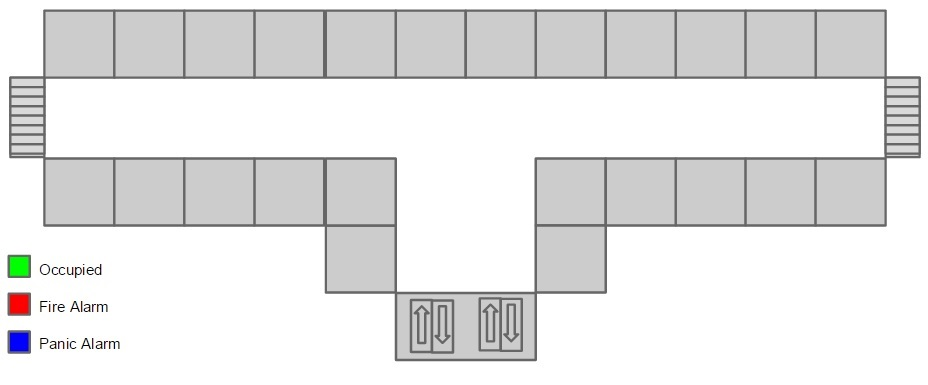
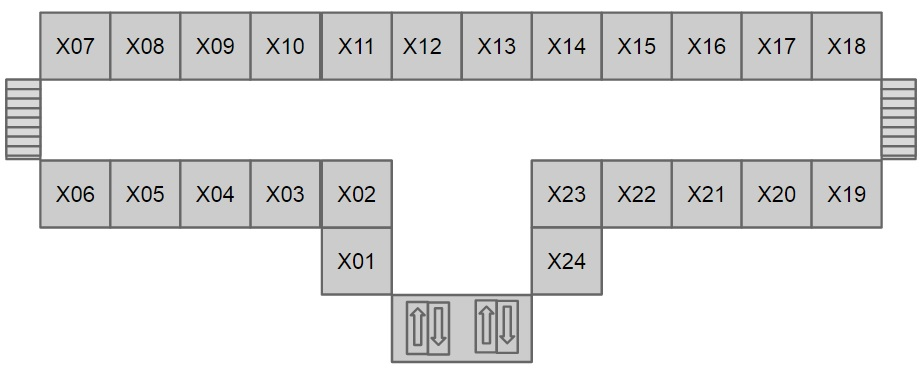
Added floor layout map

diff --git a/mainframe/gui/MainContainerFrame.java b/mainframe/gui/MainContainerFrame.java
@@ -29,7 +29,6 @@ public class MainContainerFrame extends javax.swing.JFrame {
     @SuppressWarnings("unchecked")
     // <editor-fold defaultstate="collapsed" desc="Generated Code">//GEN-BEGIN:initComponents
     private void initComponents() {
-        java.awt.GridBagConstraints gridBagConstraints;
 
         mainFrame = new javax.swing.JTabbedPane();
         reserveTab = new javax.swing.JPanel();
@@ -37,14 +36,7 @@ public class MainContainerFrame extends javax.swing.JFrame {
         cancelReservationButton = new javax.swing.JButton();
         GuestSearchButton = new javax.swing.JButton();
         floorLayoutTab = new javax.swing.JPanel();
-        floorTabPane = new javax.swing.JTabbedPane();
-        floor1Tab = new javax.swing.JTabbedPane();
-        floor1Layout = new javax.swing.JPanel();
-        floor1Background = new javax.swing.JPanel();
         jLabel1 = new javax.swing.JLabel();
-        jPanel1 = new javax.swing.JPanel();
-        floor2Tab = new javax.swing.JTabbedPane();
-        floor3Tab = new javax.swing.JTabbedPane();
         kitchenTab = new javax.swing.JPanel();
         kitchenPanel = new javax.swing.JPanel();
         CurrentOrdersLabel1 = new javax.swing.JLabel();
@@ -113,7 +105,7 @@ public class MainContainerFrame extends javax.swing.JFrame {
                     .addGroup(reserveTabLayout.createParallelGroup(javax.swing.GroupLayout.Alignment.LEADING, false)
                         .addComponent(cancelReservationButton, javax.swing.GroupLayout.DEFAULT_SIZE, 188, Short.MAX_VALUE)
                         .addComponent(newReservationButton, javax.swing.GroupLayout.DEFAULT_SIZE, javax.swing.GroupLayout.DEFAULT_SIZE, Short.MAX_VALUE)))
-                .addContainerGap(692, Short.MAX_VALUE))
+                .addContainerGap(688, Short.MAX_VALUE))
         );
         reserveTabLayout.setVerticalGroup(
             reserveTabLayout.createParallelGroup(javax.swing.GroupLayout.Alignment.LEADING)
@@ -124,73 +116,29 @@ public class MainContainerFrame extends javax.swing.JFrame {
                 .addComponent(cancelReservationButton, javax.swing.GroupLayout.PREFERRED_SIZE, 61, javax.swing.GroupLayout.PREFERRED_SIZE)
                 .addGap(44, 44, 44)
                 .addComponent(GuestSearchButton, javax.swing.GroupLayout.PREFERRED_SIZE, 61, javax.swing.GroupLayout.PREFERRED_SIZE)
-                .addContainerGap(262, Short.MAX_VALUE))
+                .addContainerGap(229, Short.MAX_VALUE))
         );
 
         mainFrame.addTab("Reservation", reserveTab);
 
-        floor1Background.setBackground(new java.awt.Color(255, 255, 255));
-        floor1Background.setLayout(new java.awt.GridBagLayout());
-
-        jLabel1.setIcon(new javax.swing.ImageIcon(getClass().getResource("/mainframe/resources/floorlayout.jpg"))); // NOI18N
-        gridBagConstraints = new java.awt.GridBagConstraints();
-        gridBagConstraints.gridx = 0;
-        gridBagConstraints.gridy = 0;
-        gridBagConstraints.fill = java.awt.GridBagConstraints.BOTH;
-        gridBagConstraints.weightx = 1.0;
-        gridBagConstraints.weighty = 1.0;
-        floor1Background.add(jLabel1, gridBagConstraints);
-
-        jPanel1.setOpaque(false);
-
-        javax.swing.GroupLayout jPanel1Layout = new javax.swing.GroupLayout(jPanel1);
-        jPanel1.setLayout(jPanel1Layout);
-        jPanel1Layout.setHorizontalGroup(
-            jPanel1Layout.createParallelGroup(javax.swing.GroupLayout.Alignment.LEADING)
-            .addGap(0, 936, Short.MAX_VALUE)
-        );
-        jPanel1Layout.setVerticalGroup(
-            jPanel1Layout.createParallelGroup(javax.swing.GroupLayout.Alignment.LEADING)
-            .addGap(0, 538, Short.MAX_VALUE)
-        );
-
-        gridBagConstraints = new java.awt.GridBagConstraints();
-        gridBagConstraints.gridx = 0;
-        gridBagConstraints.gridy = 0;
-        gridBagConstraints.fill = java.awt.GridBagConstraints.BOTH;
-        gridBagConstraints.weightx = 1.0;
-        gridBagConstraints.weighty = 1.0;
-        floor1Background.add(jPanel1, gridBagConstraints);
-
-        javax.swing.GroupLayout floor1LayoutLayout = new javax.swing.GroupLayout(floor1Layout);
-        floor1Layout.setLayout(floor1LayoutLayout);
-        floor1LayoutLayout.setHorizontalGroup(
-            floor1LayoutLayout.createParallelGroup(javax.swing.GroupLayout.Alignment.LEADING)
-            .addComponent(floor1Background, javax.swing.GroupLayout.DEFAULT_SIZE, javax.swing.GroupLayout.DEFAULT_SIZE, Short.MAX_VALUE)
-        );
-        floor1LayoutLayout.setVerticalGroup(
-            floor1LayoutLayout.createParallelGroup(javax.swing.GroupLayout.Alignment.LEADING)
-            .addComponent(floor1Background, javax.swing.GroupLayout.DEFAULT_SIZE, javax.swing.GroupLayout.DEFAULT_SIZE, Short.MAX_VALUE)
-        );
-
-        floor1Tab.addTab("Floor Plan", floor1Layout);
-
-        floorTabPane.addTab("Floor 1", floor1Tab);
-        floorTabPane.addTab("Floor 2", floor2Tab);
-        floorTabPane.addTab("Floor 3", floor3Tab);
+        jLabel1.setIcon(new javax.swing.ImageIcon(getClass().getResource("/codekillers/mainframe/resources/floorlayout.jpg"))); // NOI18N
 
         javax.swing.GroupLayout floorLayoutTabLayout = new javax.swing.GroupLayout(floorLayoutTab);
         floorLayoutTab.setLayout(floorLayoutTabLayout);
         floorLayoutTabLayout.setHorizontalGroup(
             floorLayoutTabLayout.createParallelGroup(javax.swing.GroupLayout.Alignment.LEADING)
-            .addComponent(floorTabPane)
+            .addGroup(javax.swing.GroupLayout.Alignment.TRAILING, floorLayoutTabLayout.createSequentialGroup()
+                .addContainerGap(javax.swing.GroupLayout.DEFAULT_SIZE, Short.MAX_VALUE)
+                .addComponent(jLabel1)
+                .addContainerGap())
         );
         floorLayoutTabLayout.setVerticalGroup(
             floorLayoutTabLayout.createParallelGroup(javax.swing.GroupLayout.Alignment.LEADING)
-            .addComponent(floorTabPane)
+            .addGroup(floorLayoutTabLayout.createSequentialGroup()
+                .addGap(89, 89, 89)
+                .addComponent(jLabel1)
+                .addContainerGap(99, Short.MAX_VALUE))
         );
-
-        floorTabPane.getAccessibleContext().setAccessibleName("FloorTabPane");
 
         mainFrame.addTab("Floor Layout", floorLayoutTab);
 
@@ -288,33 +236,33 @@ public class MainContainerFrame extends javax.swing.JFrame {
         kitchenPanel.setLayout(kitchenPanelLayout);
         kitchenPanelLayout.setHorizontalGroup(
             kitchenPanelLayout.createParallelGroup(javax.swing.GroupLayout.Alignment.LEADING)
-            .addGroup(javax.swing.GroupLayout.Alignment.TRAILING, kitchenPanelLayout.createSequentialGroup()
-                .addContainerGap()
-                .addGroup(kitchenPanelLayout.createParallelGroup(javax.swing.GroupLayout.Alignment.LEADING)
-                    .addComponent(NewOrderButton, javax.swing.GroupLayout.PREFERRED_SIZE, 250, javax.swing.GroupLayout.PREFERRED_SIZE)
-                    .addComponent(OrderHistoryButton, javax.swing.GroupLayout.PREFERRED_SIZE, 250, javax.swing.GroupLayout.PREFERRED_SIZE)
-                    .addGroup(kitchenPanelLayout.createParallelGroup(javax.swing.GroupLayout.Alignment.LEADING)
-                        .addComponent(EditOrderButton, javax.swing.GroupLayout.Alignment.TRAILING, javax.swing.GroupLayout.PREFERRED_SIZE, 250, javax.swing.GroupLayout.PREFERRED_SIZE)
-                        .addComponent(RemoveOrderButton, javax.swing.GroupLayout.PREFERRED_SIZE, 250, javax.swing.GroupLayout.PREFERRED_SIZE)
-                        .addComponent(ViewMenuButton, javax.swing.GroupLayout.PREFERRED_SIZE, 250, javax.swing.GroupLayout.PREFERRED_SIZE)
-                        .addComponent(ViewInventoryButton, javax.swing.GroupLayout.Alignment.TRAILING, javax.swing.GroupLayout.PREFERRED_SIZE, 250, javax.swing.GroupLayout.PREFERRED_SIZE)
-                        .addComponent(EditInventoryButton, javax.swing.GroupLayout.Alignment.TRAILING, javax.swing.GroupLayout.PREFERRED_SIZE, 250, javax.swing.GroupLayout.PREFERRED_SIZE)))
-                .addGap(48, 48, 48)
-                .addComponent(currentOrdersPanel, javax.swing.GroupLayout.PREFERRED_SIZE, javax.swing.GroupLayout.DEFAULT_SIZE, javax.swing.GroupLayout.PREFERRED_SIZE)
-                .addPreferredGap(javax.swing.LayoutStyle.ComponentPlacement.RELATED, 128, Short.MAX_VALUE)
-                .addGroup(kitchenPanelLayout.createParallelGroup(javax.swing.GroupLayout.Alignment.LEADING)
-                    .addGroup(javax.swing.GroupLayout.Alignment.TRAILING, kitchenPanelLayout.createSequentialGroup()
-                        .addComponent(activeOrdersPanel, javax.swing.GroupLayout.PREFERRED_SIZE, javax.swing.GroupLayout.DEFAULT_SIZE, javax.swing.GroupLayout.PREFERRED_SIZE)
-                        .addContainerGap())
-                    .addGroup(javax.swing.GroupLayout.Alignment.TRAILING, kitchenPanelLayout.createSequentialGroup()
-                        .addComponent(orderPickupButton, javax.swing.GroupLayout.PREFERRED_SIZE, 204, javax.swing.GroupLayout.PREFERRED_SIZE)
-                        .addGap(26, 26, 26))))
             .addGroup(kitchenPanelLayout.createSequentialGroup()
-                .addContainerGap(javax.swing.GroupLayout.DEFAULT_SIZE, Short.MAX_VALUE)
-                .addComponent(CurrentOrdersLabel1)
-                .addGap(158, 158, 158)
-                .addComponent(activeOrdersLabel)
-                .addGap(85, 85, 85))
+                .addGroup(kitchenPanelLayout.createParallelGroup(javax.swing.GroupLayout.Alignment.LEADING)
+                    .addGroup(kitchenPanelLayout.createSequentialGroup()
+                        .addContainerGap()
+                        .addGroup(kitchenPanelLayout.createParallelGroup(javax.swing.GroupLayout.Alignment.LEADING)
+                            .addComponent(NewOrderButton, javax.swing.GroupLayout.PREFERRED_SIZE, 250, javax.swing.GroupLayout.PREFERRED_SIZE)
+                            .addComponent(OrderHistoryButton, javax.swing.GroupLayout.PREFERRED_SIZE, 250, javax.swing.GroupLayout.PREFERRED_SIZE)
+                            .addGroup(kitchenPanelLayout.createParallelGroup(javax.swing.GroupLayout.Alignment.LEADING)
+                                .addComponent(EditOrderButton, javax.swing.GroupLayout.Alignment.TRAILING, javax.swing.GroupLayout.PREFERRED_SIZE, 250, javax.swing.GroupLayout.PREFERRED_SIZE)
+                                .addComponent(RemoveOrderButton, javax.swing.GroupLayout.PREFERRED_SIZE, 250, javax.swing.GroupLayout.PREFERRED_SIZE)
+                                .addComponent(ViewMenuButton, javax.swing.GroupLayout.PREFERRED_SIZE, 250, javax.swing.GroupLayout.PREFERRED_SIZE)
+                                .addComponent(ViewInventoryButton, javax.swing.GroupLayout.Alignment.TRAILING, javax.swing.GroupLayout.PREFERRED_SIZE, 250, javax.swing.GroupLayout.PREFERRED_SIZE)
+                                .addComponent(EditInventoryButton, javax.swing.GroupLayout.Alignment.TRAILING, javax.swing.GroupLayout.PREFERRED_SIZE, 250, javax.swing.GroupLayout.PREFERRED_SIZE)))
+                        .addGap(48, 48, 48)
+                        .addComponent(currentOrdersPanel, javax.swing.GroupLayout.PREFERRED_SIZE, javax.swing.GroupLayout.DEFAULT_SIZE, javax.swing.GroupLayout.PREFERRED_SIZE)
+                        .addGap(18, 18, 18)
+                        .addGroup(kitchenPanelLayout.createParallelGroup(javax.swing.GroupLayout.Alignment.LEADING)
+                            .addComponent(activeOrdersPanel, javax.swing.GroupLayout.PREFERRED_SIZE, javax.swing.GroupLayout.DEFAULT_SIZE, javax.swing.GroupLayout.PREFERRED_SIZE)
+                            .addGroup(kitchenPanelLayout.createSequentialGroup()
+                                .addGap(10, 10, 10)
+                                .addComponent(orderPickupButton, javax.swing.GroupLayout.PREFERRED_SIZE, 204, javax.swing.GroupLayout.PREFERRED_SIZE))))
+                    .addGroup(kitchenPanelLayout.createSequentialGroup()
+                        .addGap(374, 374, 374)
+                        .addComponent(CurrentOrdersLabel1)
+                        .addGap(162, 162, 162)
+                        .addComponent(activeOrdersLabel)))
+                .addContainerGap(javax.swing.GroupLayout.DEFAULT_SIZE, Short.MAX_VALUE))
         );
         kitchenPanelLayout.setVerticalGroup(
             kitchenPanelLayout.createParallelGroup(javax.swing.GroupLayout.Alignment.LEADING)
@@ -345,9 +293,8 @@ public class MainContainerFrame extends javax.swing.JFrame {
                         .addGroup(kitchenPanelLayout.createParallelGroup(javax.swing.GroupLayout.Alignment.LEADING)
                             .addGroup(kitchenPanelLayout.createSequentialGroup()
                                 .addComponent(activeOrdersPanel, javax.swing.GroupLayout.PREFERRED_SIZE, javax.swing.GroupLayout.DEFAULT_SIZE, javax.swing.GroupLayout.PREFERRED_SIZE)
-                                .addGap(18, 18, 18)
-                                .addComponent(orderPickupButton)
-                                .addGap(0, 10, Short.MAX_VALUE))
+                                .addPreferredGap(javax.swing.LayoutStyle.ComponentPlacement.RELATED)
+                                .addComponent(orderPickupButton, javax.swing.GroupLayout.DEFAULT_SIZE, javax.swing.GroupLayout.DEFAULT_SIZE, Short.MAX_VALUE))
                             .addComponent(currentOrdersPanel, javax.swing.GroupLayout.DEFAULT_SIZE, javax.swing.GroupLayout.DEFAULT_SIZE, Short.MAX_VALUE))))
                 .addContainerGap())
         );
@@ -358,8 +305,8 @@ public class MainContainerFrame extends javax.swing.JFrame {
             kitchenTabLayout.createParallelGroup(javax.swing.GroupLayout.Alignment.LEADING)
             .addGroup(kitchenTabLayout.createSequentialGroup()
                 .addContainerGap()
-                .addComponent(kitchenPanel, javax.swing.GroupLayout.DEFAULT_SIZE, javax.swing.GroupLayout.DEFAULT_SIZE, Short.MAX_VALUE)
-                .addContainerGap())
+                .addComponent(kitchenPanel, javax.swing.GroupLayout.PREFERRED_SIZE, javax.swing.GroupLayout.DEFAULT_SIZE, javax.swing.GroupLayout.PREFERRED_SIZE)
+                .addContainerGap(javax.swing.GroupLayout.DEFAULT_SIZE, Short.MAX_VALUE))
         );
         kitchenTabLayout.setVerticalGroup(
             kitchenTabLayout.createParallelGroup(javax.swing.GroupLayout.Alignment.LEADING)
@@ -464,7 +411,7 @@ public class MainContainerFrame extends javax.swing.JFrame {
                                 .addGroup(checkoutTabLayout.createSequentialGroup()
                                     .addGap(15, 15, 15)
                                     .addComponent(CheckOutButton))))))
-                .addContainerGap(695, Short.MAX_VALUE))
+                .addContainerGap(691, Short.MAX_VALUE))
         );
         checkoutTabLayout.setVerticalGroup(
             checkoutTabLayout.createParallelGroup(javax.swing.GroupLayout.Alignment.LEADING)
@@ -498,7 +445,7 @@ public class MainContainerFrame extends javax.swing.JFrame {
                     .addComponent(jLabel10))
                 .addGap(38, 38, 38)
                 .addComponent(CheckOutButton)
-                .addContainerGap(276, Short.MAX_VALUE))
+                .addContainerGap(264, Short.MAX_VALUE))
         );
 
         mainFrame.addTab("Check Out", checkoutTab);
@@ -507,11 +454,11 @@ public class MainContainerFrame extends javax.swing.JFrame {
         searchTab.setLayout(searchTabLayout);
         searchTabLayout.setHorizontalGroup(
             searchTabLayout.createParallelGroup(javax.swing.GroupLayout.Alignment.LEADING)
-            .addGap(0, 946, Short.MAX_VALUE)
+            .addGap(0, 942, Short.MAX_VALUE)
         );
         searchTabLayout.setVerticalGroup(
             searchTabLayout.createParallelGroup(javax.swing.GroupLayout.Alignment.LEADING)
-            .addGap(0, 594, Short.MAX_VALUE)
+            .addGap(0, 561, Short.MAX_VALUE)
         );
 
         mainFrame.addTab("Search/Update", searchTab);
@@ -522,12 +469,13 @@ public class MainContainerFrame extends javax.swing.JFrame {
             layout.createParallelGroup(javax.swing.GroupLayout.Alignment.LEADING)
             .addGroup(layout.createSequentialGroup()
                 .addContainerGap()
-                .addComponent(mainFrame)
-                .addContainerGap())
+                .addComponent(mainFrame))
         );
         layout.setVerticalGroup(
             layout.createParallelGroup(javax.swing.GroupLayout.Alignment.LEADING)
-            .addComponent(mainFrame, javax.swing.GroupLayout.Alignment.TRAILING)
+            .addGroup(layout.createSequentialGroup()
+                .addComponent(mainFrame, javax.swing.GroupLayout.PREFERRED_SIZE, 589, javax.swing.GroupLayout.PREFERRED_SIZE)
+                .addGap(0, 8, Short.MAX_VALUE))
         );
 
         pack();
@@ -668,13 +616,7 @@ public class MainContainerFrame extends javax.swing.JFrame {
     private javax.swing.JButton cancelReservationButton;
     private javax.swing.JPanel checkoutTab;
     private javax.swing.JPanel currentOrdersPanel;
-    private javax.swing.JPanel floor1Background;
-    private javax.swing.JPanel floor1Layout;
-    private javax.swing.JTabbedPane floor1Tab;
-    private javax.swing.JTabbedPane floor2Tab;
-    private javax.swing.JTabbedPane floor3Tab;
     private javax.swing.JPanel floorLayoutTab;
-    private javax.swing.JTabbedPane floorTabPane;
     private javax.swing.JTextField guestIDField;
     private javax.swing.JComboBox jComboBox1;
     private javax.swing.JComboBox jComboBox2;
@@ -685,7 +627,6 @@ public class MainContainerFrame extends javax.swing.JFrame {
     private javax.swing.JLabel jLabel7;
     private javax.swing.JLabel jLabel8;
     private javax.swing.JLabel jLabel9;
-    private javax.swing.JPanel jPanel1;
     private javax.swing.JTextField jTextField2;
     private javax.swing.JTextField jTextField3;
     private javax.swing.JTextField jTextField4;
